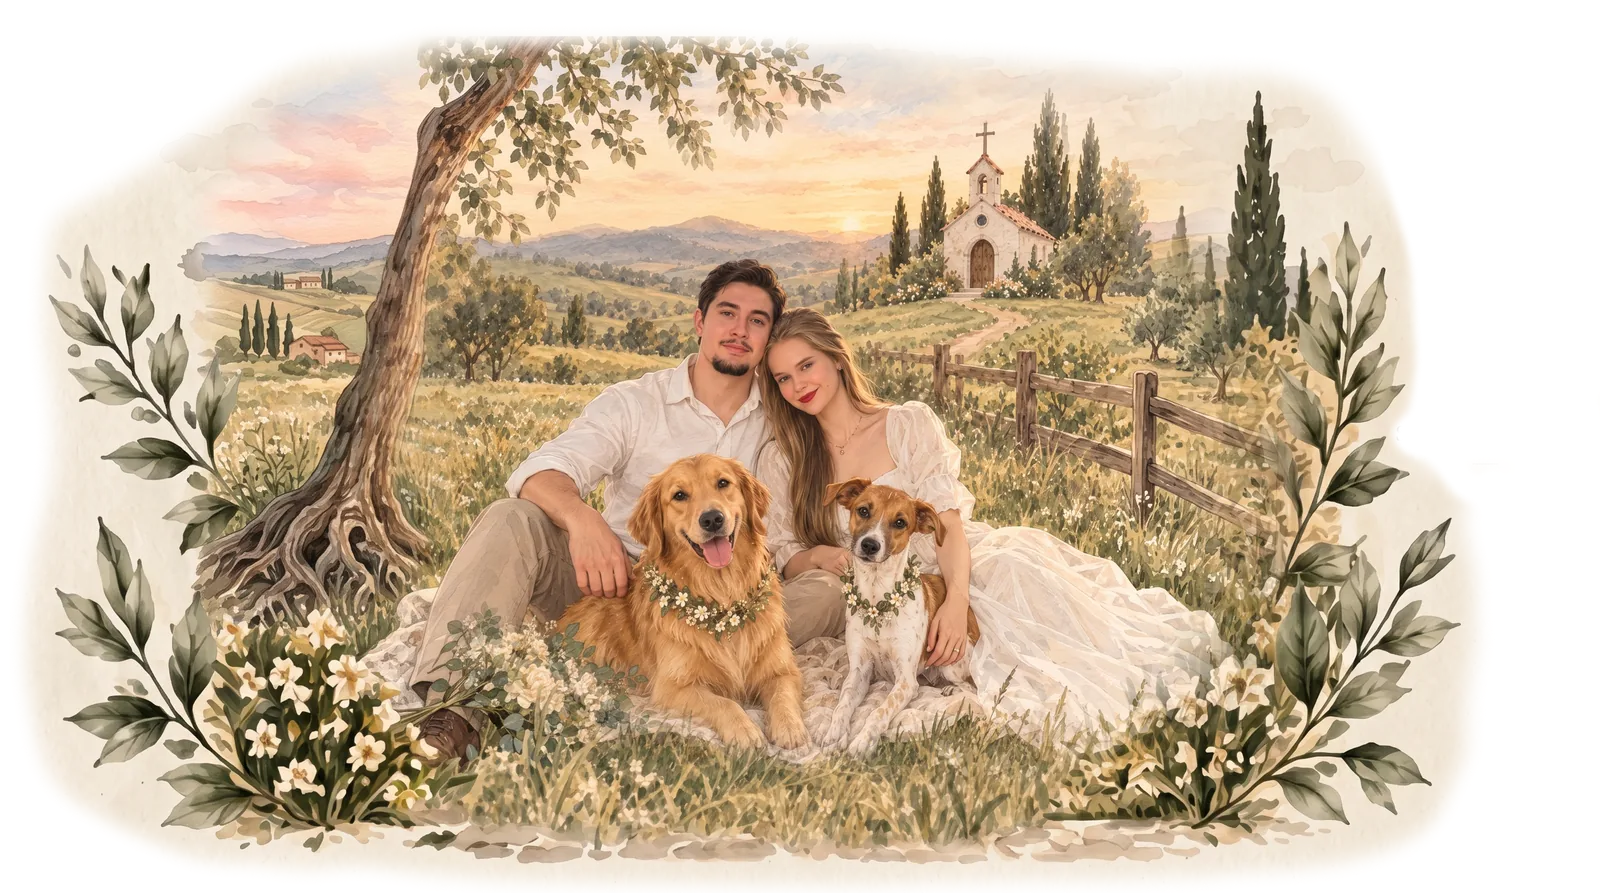
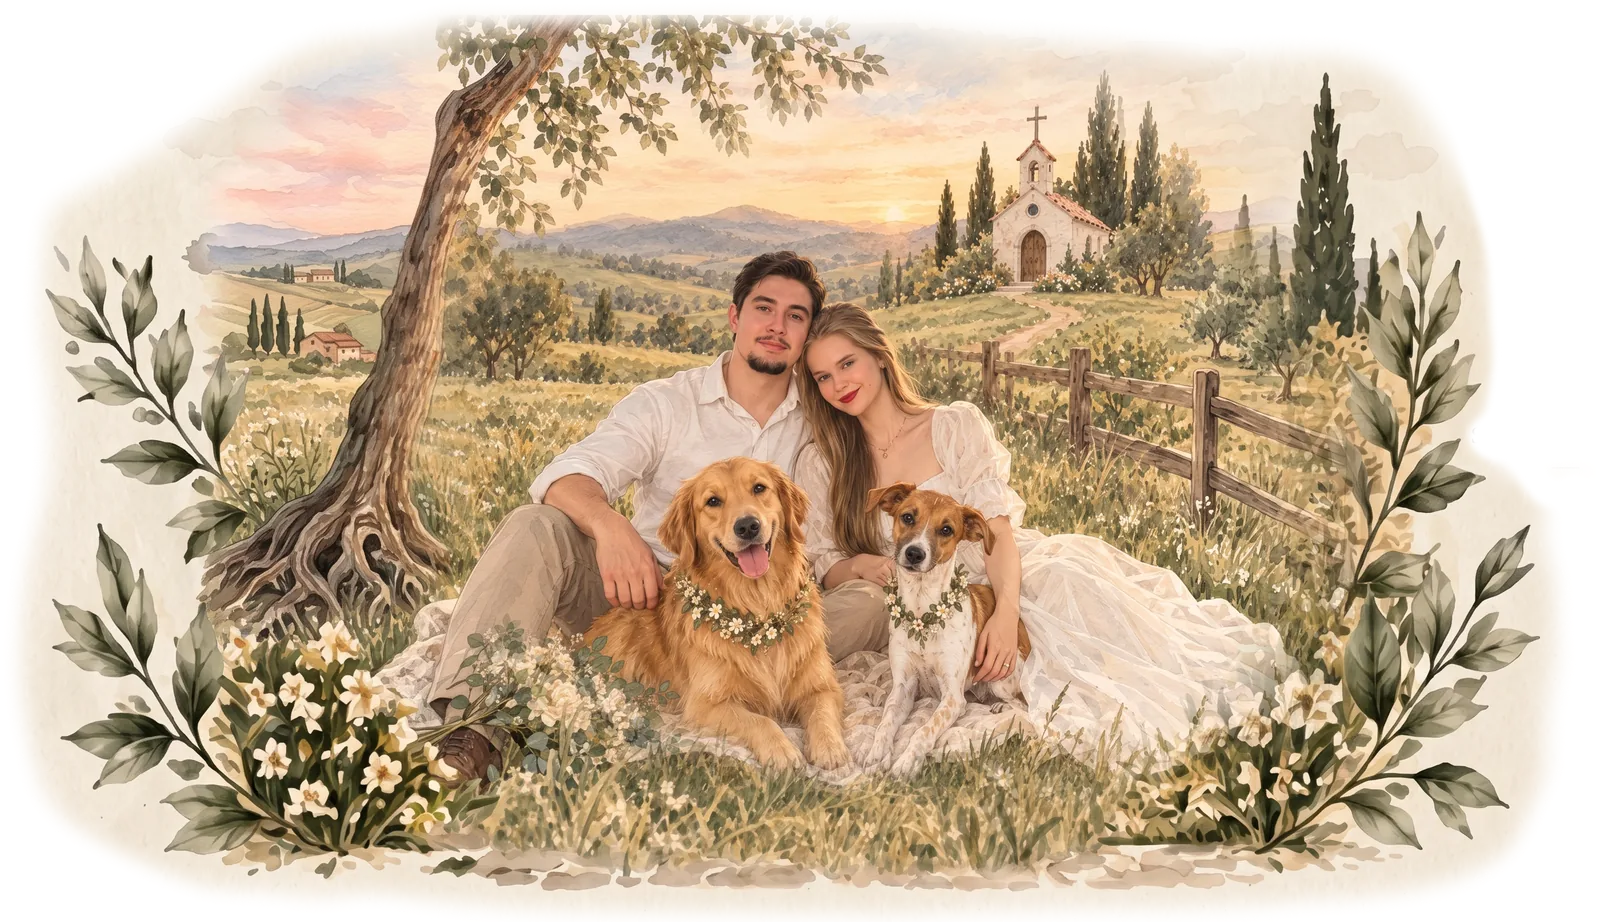
Centraliza a aquarela: o desvio vinha do próprio arquivo
A arte não estava no meio do PNG. Sobravam 211px de tela vazia à direita
contra 41px à esquerda, e 66px no topo contra 11px na base — o centro da
pintura ficava 85px (3%) à esquerda do centro do arquivo. Por isso, ao
sangrar simetricamente, ela parecia empurrada para um lado.

Recortei o arquivo na arte de verdade, preservando a borda esfumada: o
desvio cai de 3% para 0,7%. Com isso o transbordo lateral pôde voltar de
14% para 6%, ficando 11px de cada lado.

diff --git a/index.html b/index.html
@@ -15,7 +15,7 @@
 <meta property="og:url" content="https://xirugabriel.github.io/casamento-mozar-eduarda/">
 <meta property="og:image" content="https://xirugabriel.github.io/casamento-mozar-eduarda/img/identidade/aquarela.jpg">
 <meta property="og:image:width" content="1200">
-<meta property="og:image:height" content="670">
+<meta property="og:image:height" content="691">
 <meta property="og:image:alt" content="Aquarela de Mozar e Eduarda com as cachorras, em frente à capela.">
 <meta property="og:locale" content="pt_BR">
 <meta name="twitter:card" content="summary_large_image">
@@ -23,7 +23,7 @@
 <link rel="preconnect" href="https://fonts.googleapis.com">
 <link rel="preconnect" href="https://fonts.gstatic.com" crossorigin>
 <link rel="stylesheet" href="https://fonts.googleapis.com/css2?family=Playfair+Display:wght@400;500;600&family=Lato:wght@300;400;700&family=Allura&display=swap">
-<link rel="stylesheet" href="css/style.css?v=33">
+<link rel="stylesheet" href="css/style.css?v=34">
 </head>
 <body>
 
@@ -76,7 +76,7 @@
   <div class="container">
     <div class="aquarela__grade">
       <figure class="rv">
-        <img src="img/identidade/aquarela.webp" width="1600" height="893"
+        <img src="img/identidade/aquarela.webp" width="1600" height="922"
              alt="Aquarela de Mozar e Eduarda com as cachorras, em frente à capela.">
       </figure>
       <div class="aquarela__dizeres rv" style="--d:.15s">

diff --git a/css/style.css b/css/style.css
@@ -266,14 +266,14 @@ button { font: inherit; color: inherit; }
 .aquarela__dizeres { display: flex; justify-content: center; }
 .aquarela__dizeres .dizeres { text-align: center; }
 
-/* no celular a aquarela sangra até as bordas e ainda transborda um pouco:
-   a arte tem borda esfumada, então não existe corte reto para disfarçar e o
-   que sai da tela não faz falta. A seção tem overflow hidden, sem rolagem lateral. */
+/* no celular a aquarela sangra até as bordas e transborda um pouco: a arte
+   tem borda esfumada, então não existe corte reto para disfarçar e o que sai
+   da tela não faz falta. A seção tem overflow hidden, sem rolagem lateral. */
 @media (max-width: 759px) {
   .aquarela { padding-top: clamp(1.8rem, 6vw, 3rem); }
   .aquarela .container { width: 100%; }
-  .aquarela figure { width: 114%; margin-left: -7%; }
-  .aquarela__dizeres { padding-inline: var(--gutter); margin-top: clamp(.5rem, 2vw, 1rem); }
+  .aquarela figure { width: 106%; margin-left: -3%; }
+  .aquarela__dizeres { padding-inline: var(--gutter); margin-top: clamp(.8rem, 3vw, 1.4rem); }
 }
 
 /* ============================================== 3. CONTAGEM REGRESSIVA */

diff --git a/admin.html b/admin.html
@@ -8,7 +8,7 @@
 <link rel="preconnect" href="https://fonts.googleapis.com">
 <link rel="preconnect" href="https://fonts.gstatic.com" crossorigin>
 <link rel="stylesheet" href="https://fonts.googleapis.com/css2?family=Playfair+Display:wght@400;500&family=Lato:wght@300;400;700&family=Allura&display=swap">
-<link rel="stylesheet" href="css/style.css?v=33">
+<link rel="stylesheet" href="css/style.css?v=34">
 <style>
   body { background: var(--marfim); }
   .topo {
